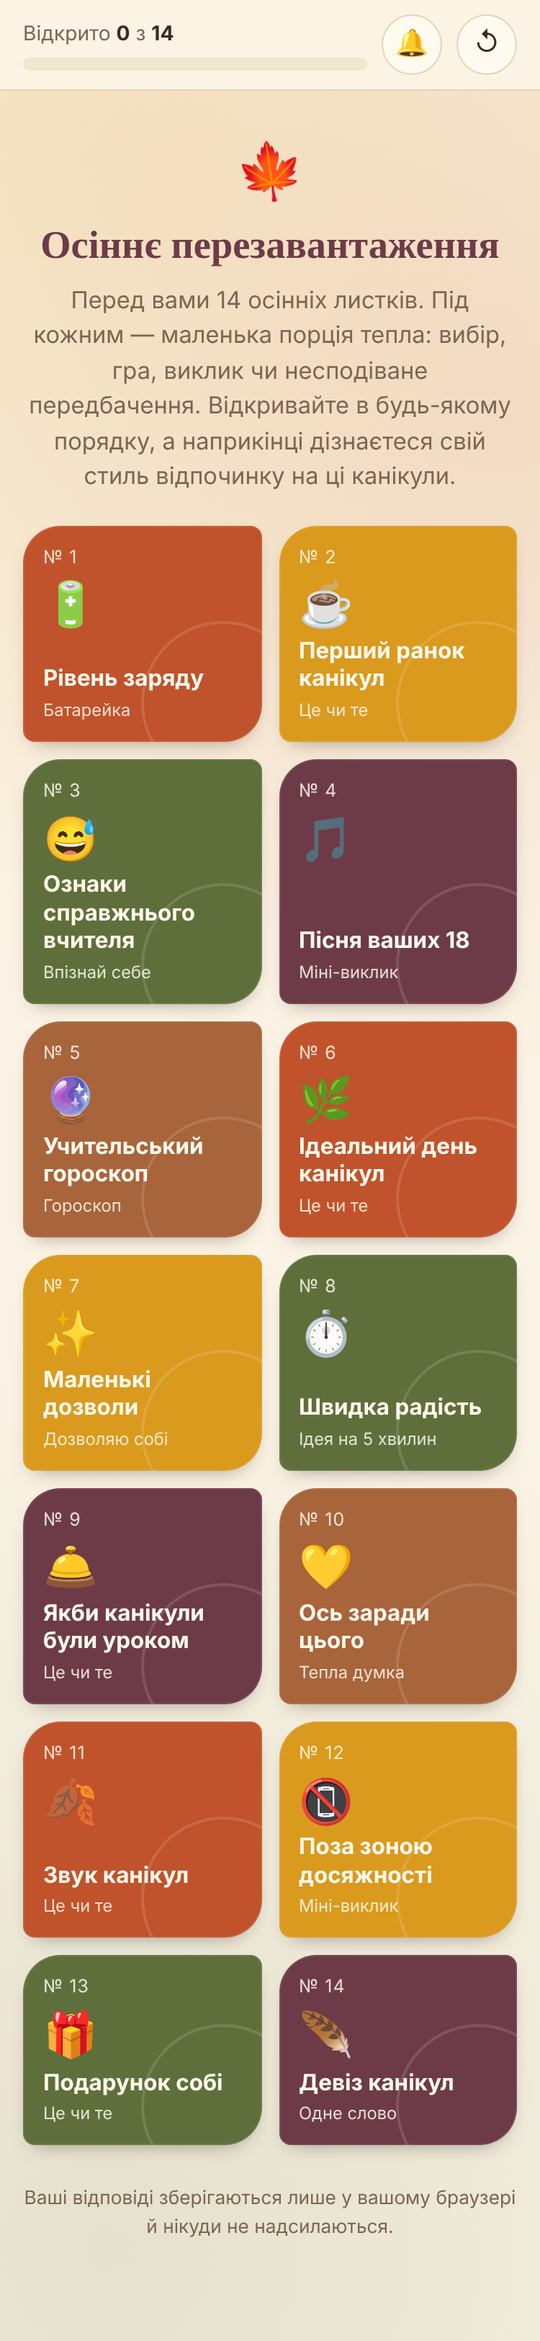
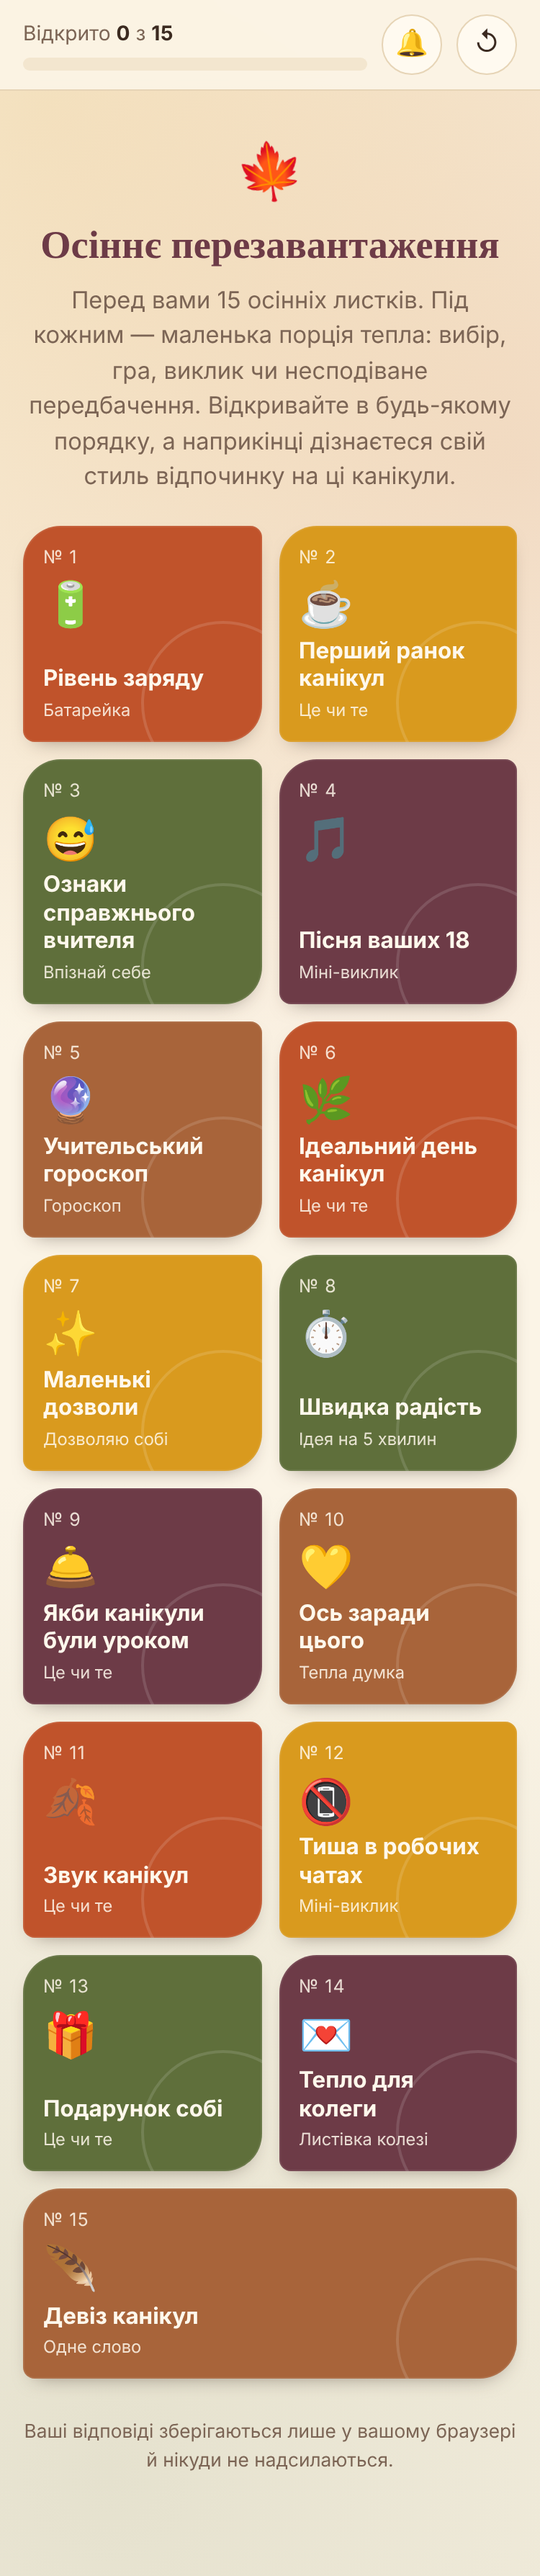
Осіннє перезавантаження: делікатніші тексти
Claude-Session: https://claude.ai/code/session_01GzFyxRDTEjLq8fL18pnv8c

diff --git a/kanikuly-acrkc6/index.html b/kanikuly-acrkc6/index.html
@@ -412,12 +412,12 @@
       ideas: [
         "Вийдіть надвір і знайдіть найяскравіший листок поблизу. Його можна засушити в улюбленій книжці.",
         "Зробіть какао з корицею й випийте його біля вікна, нікуди не поспішаючи.",
-        "Перегляньте старі фото й знайдіть те, на якому ви найщасливіші.",
+        "Знайдіть відео з найкумеднішими котиками й дозвольте собі посміятися вголос.",
         "Подзвоніть людині, за якою скучили, і запитайте, як у неї справи.",
-        "Станцюйте під одну пісню на кухні. Свідків не буде, а гарний настрій буде.",
-        "Запаліть свічку й п’ять хвилин подивіться на вогник. Без телефону.",
+        "Станцюйте під одну пісню на кухні. Глядачів не буде, а гарний настрій буде.",
+        "Приготуйте бутерброд-усмішку: кружальця огірка — очі, скибочка помідора — рот.",
         "Складіть список із п’яти дрібниць, які порадували вас цієї осені.",
-        "Напишіть кілька рядків собі — тому, хто зустріне літні канікули. Що побажаєте?"
+        "Складіть плейлист із трьох пісень, під які неможливо сумувати."
       ] },
 
     { id: "lesson", type: "choice", emo: "🛎", kind: "Це чи те", title: "Якби канікули були уроком",
@@ -452,8 +452,8 @@
           r: "Історія чекає, і ніхто не попросить скласти план прочитаного." }
       ] },
 
-    { id: "offline", type: "challenge", emo: "📵", kind: "Міні-виклик", title: "Поза зоною досяжності",
-      lead: "Оберіть один день канікул, коли робочі чати сплять разом із будильником. Сповіщення вимкнено, совість спокійна.",
+    { id: "offline", type: "challenge", emo: "📵", kind: "Міні-виклик", title: "Тиша в робочих чатах",
+      lead: "Оберіть один день канікул, коли робочі чати сплять разом із будильником. Звук у них вимкнено, совість спокійна.",
       note: "Мій день тиші — це…", button: "Приймаю виклик!" },
 
     { id: "gift", type: "choice", emo: "🎁", kind: "Це чи те", title: "Подарунок собі",
@@ -489,11 +489,11 @@
     ["♈", "Овен", "Ваша енергія вражає навіть зорі. Тож цього тижня вони наполегливо радять спрямувати її… у диван. Маршрут дня: диван — холодильник — диван."],
     ["♉", "Телець", "Венера обіцяє вам смачні канікули. Особливо сприятливий час для пирога, який ви давно хотіли спекти, але все не виходило через зошити."],
     ["♊", "Близнята", "На вас чекають довгі цікаві розмови. І в жодній із них не прозвучить слово «звіт»."],
-    ["♋", "Рак", "Ваш дім стане фортецею: ковдра — мурами, чай — запасом провізії. Облога невідкладних справ цього тижня не вдасться."],
+    ["♋", "Рак", "Ваш дім стане найзатишнішим місцем у Всесвіті. Ковдра, чай і улюблений серіал уже чекають, а невідкладні справи цього тижня постукають — і підуть ні з чим."],
     ["♌", "Лев", "Цього тижня ви сяятимете без жодного відкритого уроку. Оплески — просто за те, що ви є."],
-    ["♍", "Діва", "Зорі дозволяють вам помітити помилку в чужому тексті… і не виправити її. Це буде ваш найбільший подвиг канікул."],
+    ["♍", "Діва", "Зорі дозволяють вам помітити помилку в чужому тексті… і не виправити її. Це буде ваше найбільше досягнення канікул."],
     ["♎", "Терези", "Ідеальна рівновага: половина дня — для приємних справ, друга половина — для ще приємніших."],
-    ["♏", "Скорпіон", "Ваша таємна суперсила — вимикати сповіщення. Цього тижня зорі дозволяють користуватися нею без обмежень."],
+    ["♏", "Скорпіон", "Ваша таємна суперсила — вимикати звук у робочих чатах. Цього тижня зорі дозволяють користуватися нею без обмежень."],
     ["♐", "Стрілець", "Вас кличе дорога! Хоча б до найближчого парку, де листя шурхотить голосніше, ніж дзвінок на перерву."],
     ["♑", "Козоріг", "Ви нарешті складете план. План нічого не планувати. І виконаєте його на 100 %."],
     ["♒", "Водолій", "У вашій голові з’являться геніальні ідеї. Зорі радять записати їх і відкласти до кінця канікул — нехай теж відпочинуть."],
@@ -805,16 +805,16 @@
   };
 
   function batteryText(v) {
-    if (v <= 20) return "Режим енергозбереження. Ви дотягли до канікул — і це вже маленький героїзм. 🪫";
+    if (v <= 20) return "Батарейка майже на нулі. Ви дотягли до канікул — і це вже велике досягнення. 🪫";
     if (v <= 50) return "Заряду вистачить на чай і одну серію. Саме час під’єднатися до зарядки.";
     if (v <= 80) return "Непогано тримаєтеся! Канікули зарядять решту.";
     return "Ого! Схоже, ви знаєте якийсь секрет. Поділитеся з колегами? ⚡";
   }
   function recognizeText(n) {
-    if (n === 0) return "Жодного збігу? Ви або неймовірно стійкі, або дуже скромні 😉";
+    if (n === 0) return "Жодного збігу? Ви або неймовірно витримані, або дуже скромні 😉";
     if (n <= 3) return "Помірна вчительськість. Ви ще пам’ятаєте, що таке вихідний!";
     if (n <= 6) return "Класика жанру! Ви справжній учитель, і канікули вам точно потрібні.";
-    return "Повний комплект! Вручаємо вам орден «Учитель до кінчиків пальців» і тиждень заслуженого спокою 🏅";
+    return "Повний комплект! Вручаємо вам почесну грамоту «Учитель до кінчиків пальців» і тиждень заслуженого спокою 📜";
   }
 
   /* ---------- підсумок ---------- */
